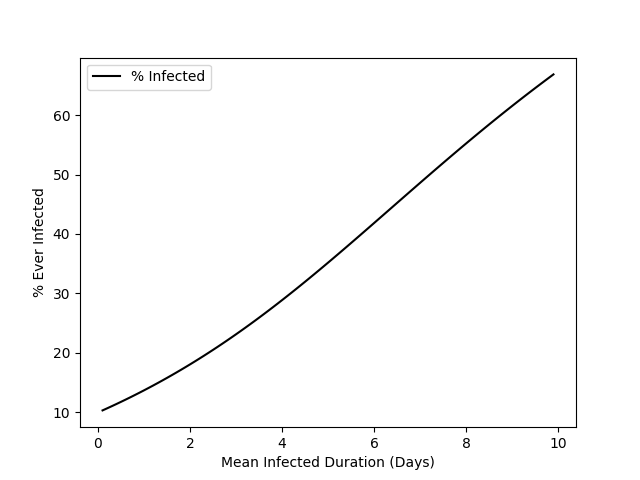
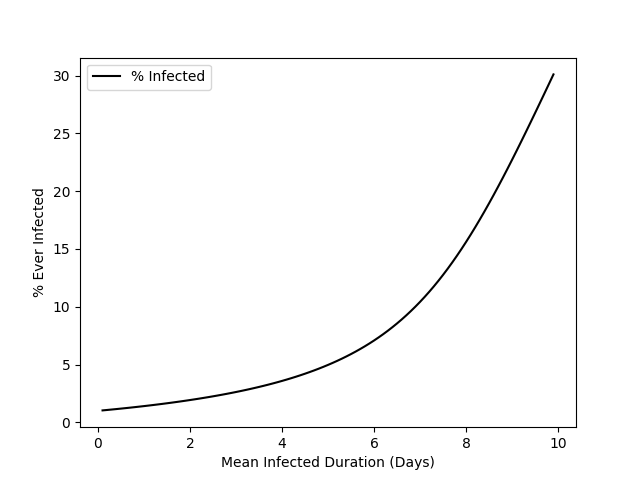
changing variables

diff --git a/hrenard_program3.py b/hrenard_program3.py
@@ -27,7 +27,7 @@ def runsim(
 	R = np.empty(len(time_values))
 	D = np.empty(len(time_values))
 
-	total_pop = 1000
+	total_pop = 10000
 	
 	S[0] = total_pop - 100
 	E[0] = 0
